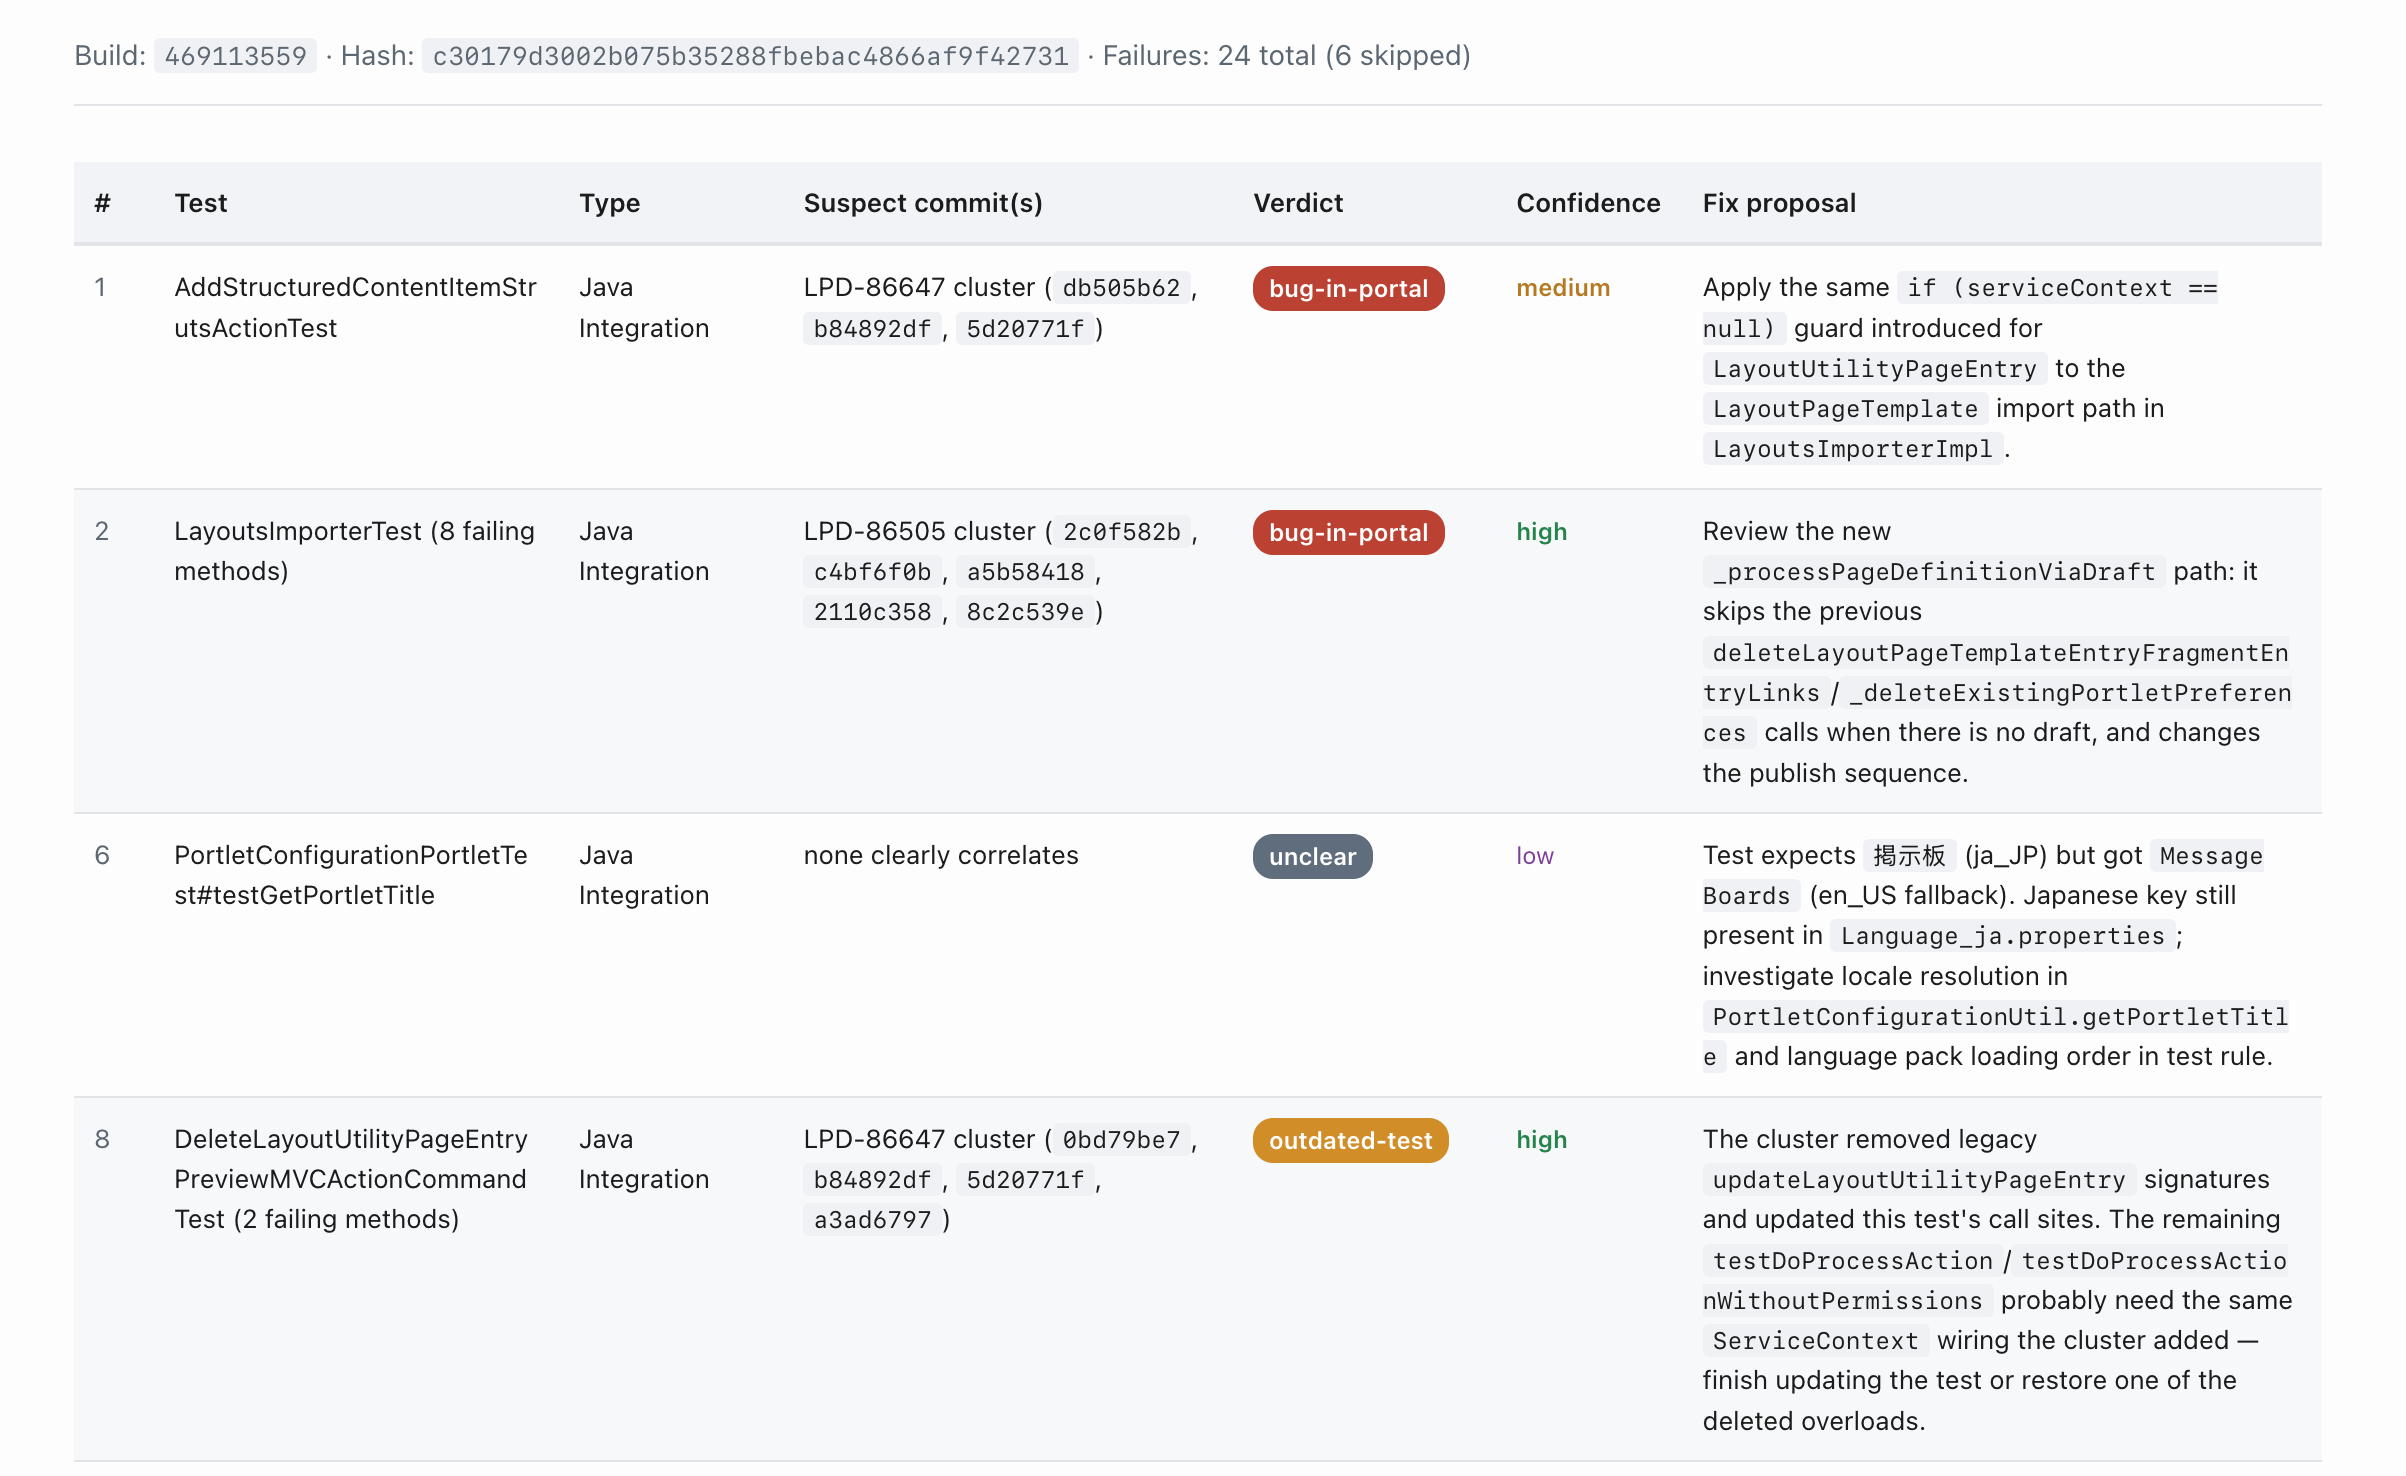
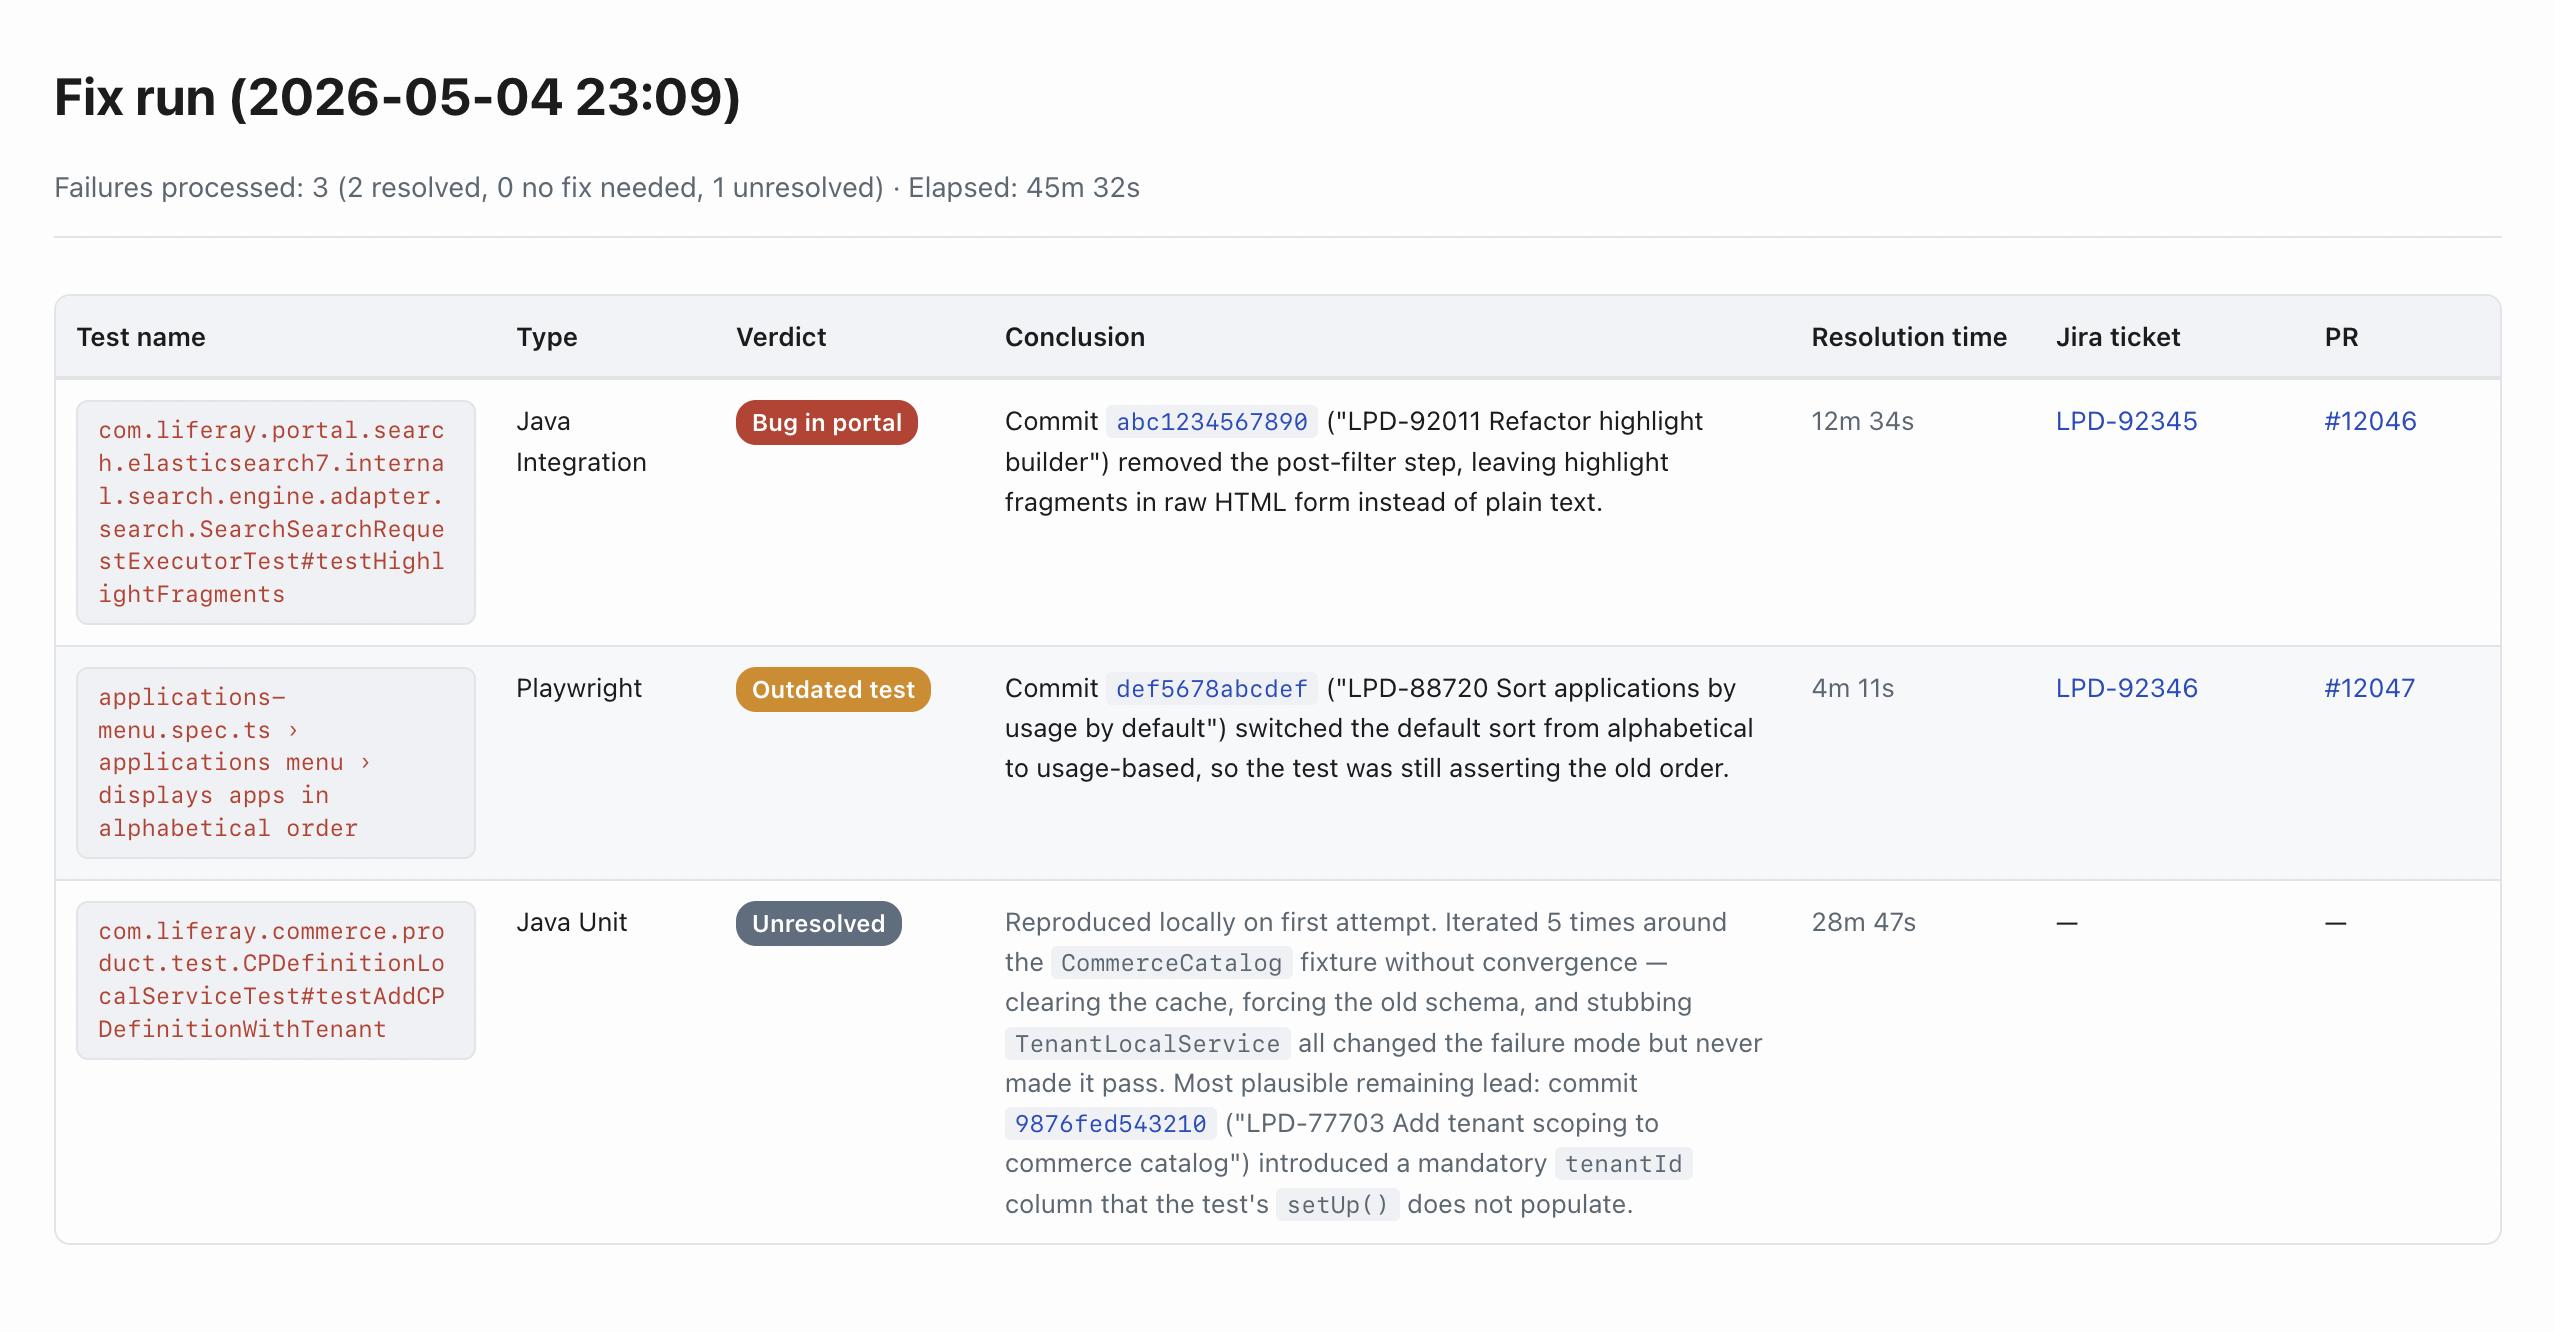
Update report screenshot

diff --git a/README.md b/README.md
@@ -40,6 +40,4 @@ Pass one or more Testray case result IDs separated by spaces. For each case resu
 
 ![Sample HTML report](docs/report-screenshot.png)
 
-## Other available skills
-
-- `/collect-failure-data <caseResultId>` — fetch the failure JSON for a single Testray case result without running the fix workflow. Writes `output/test-failure-<caseResultId>-<YYYY-MM-DD>.json` with `name`, `type`, `errorTrace`, `lastPassSha`, and `firstFailSha`. The `lastPassSha` and `firstFailSha` are computed over the case's history filtered to the same routine as the supplied case result. Aborts with a clear message when the supplied case result has status `PASSED`. This is the same script `/fix-test-failures` calls under the hood.
+_Sample rendering with fake data — test names, commits, tickets and PRs are illustrative only._